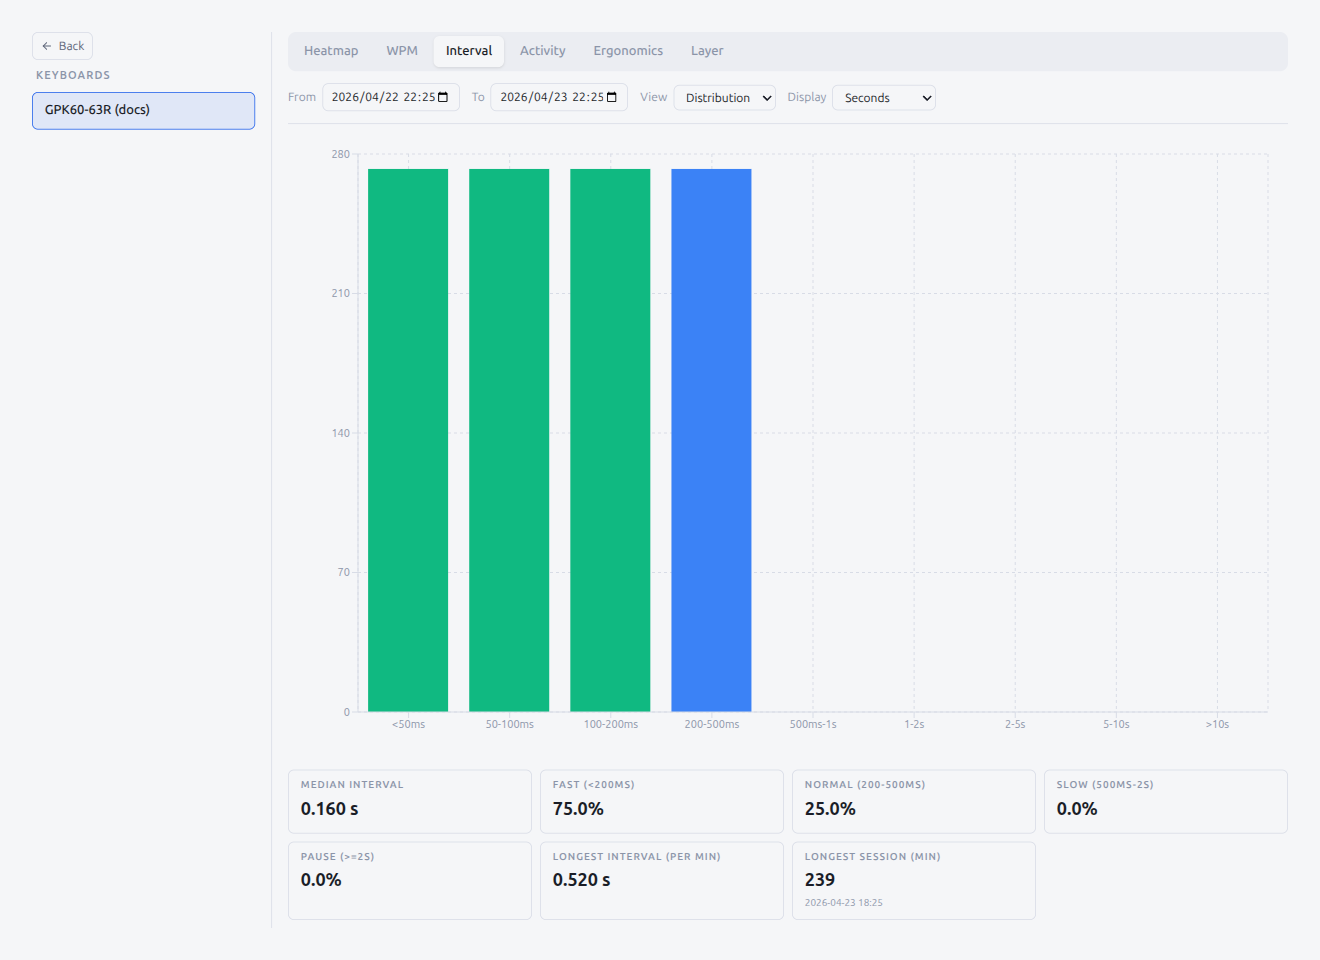
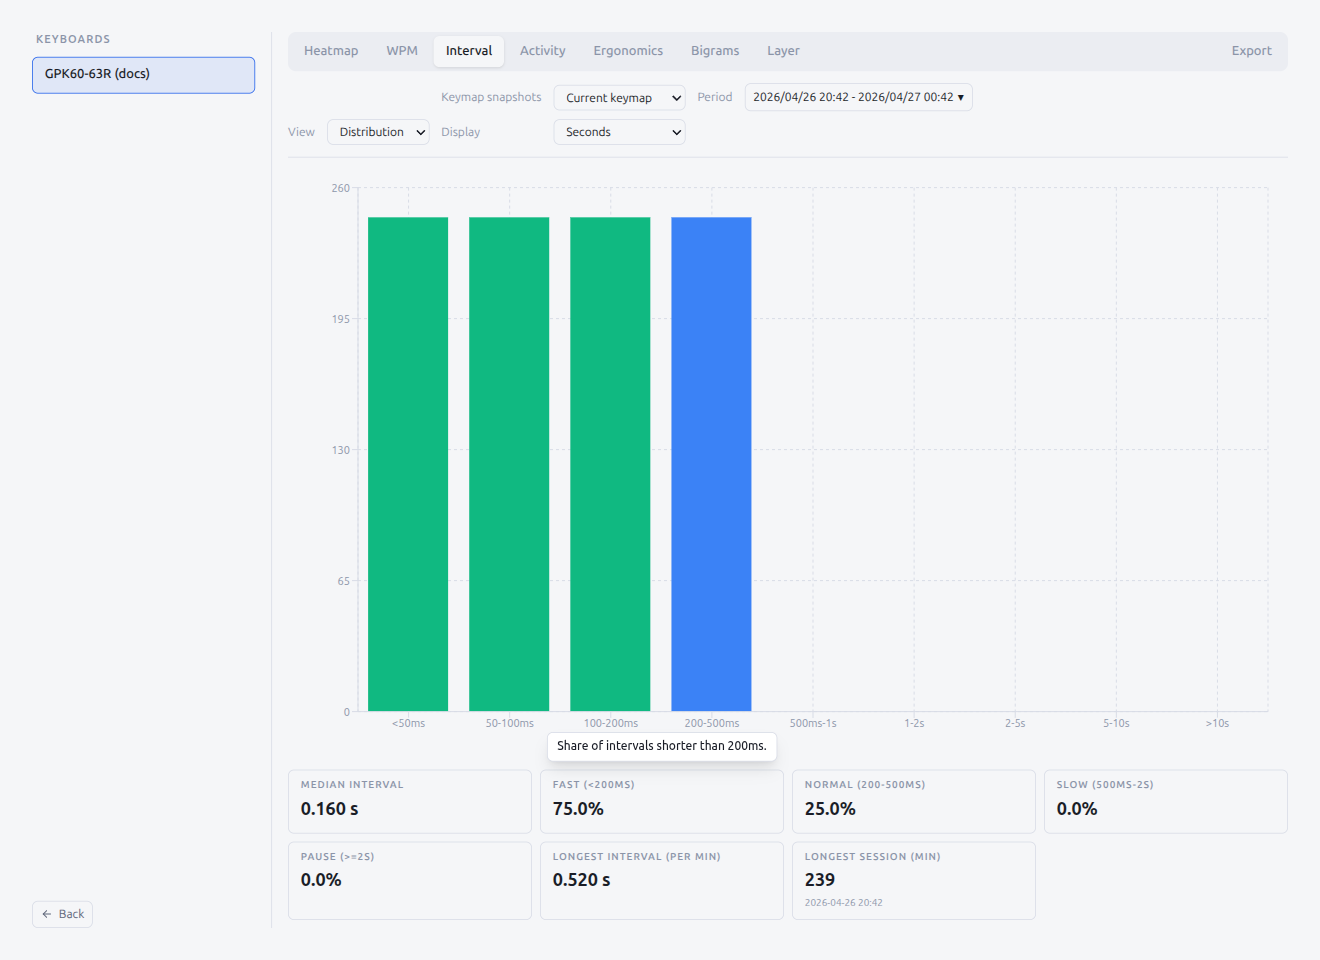
docs(analyze): document the Bigrams tab and refresh seeded screenshots
- Add a Bigrams subsection to the English and Japanese operation
  guides with the four-quadrant table, the Finger IKI snapshot
  requirement, common filters, and empty-state copy that mirrors the
  shipping i18n strings.
- Bump the analysis-tab summary from six to seven entries and add
  Bigrams Finger IKI to the snapshot-bound list in the common-filters
  paragraph.
- Extend the doc-capture helpers to seed bigram-minute rows (alpha row
  pinned at row-1 cols 0-5 and 9-11 so left- and right-hand finger
  pairs both render) and to capture the Bigrams quadrant grid as
  `screenshots/analyze-bigrams.png` with an element screenshot.
- Regenerate the analyze screenshots affected by the diversified alpha
  row (Heatmap now resolves KC_A-F / KC_J-L instead of KC_A everywhere).

diff --git a/e2e/helpers/analyze-seed.ts b/e2e/helpers/analyze-seed.ts
@@ -77,6 +77,22 @@ const DUMMY_TA_LAYER_OPS: Record<string, string> = {
   '0,0,4': 'OSL(2)',
 }
 
+// Alpha row aligned with the matrix-minute seed (keycode = 4 + col on
+// layer 0 row 1, left half) plus right-hand alphas at cols 9-11 so the
+// Bigrams Finger IKI view shows both blue (left-start) and red
+// (right-start) bars instead of a single-hand silhouette.
+const DUMMY_TA_ALPHA_ROW: Record<string, string> = {
+  '0,1,0': 'KC_A',
+  '0,1,1': 'KC_B',
+  '0,1,2': 'KC_C',
+  '0,1,3': 'KC_D',
+  '0,1,4': 'KC_E',
+  '0,1,5': 'KC_F',
+  '0,1,9': 'KC_J',
+  '0,1,10': 'KC_K',
+  '0,1,11': 'KC_L',
+}
+
 export interface TypingAnalyticsSeedBackup {
   jsonlPath: string
   snapshotPath: string
@@ -112,7 +128,8 @@ function buildDummyKeymap(): string[][][] {
     for (let row = 0; row < DUMMY_TA_ROWS; row += 1) {
       const cols: string[] = []
       for (let col = 0; col < DUMMY_TA_COLS; col += 1) {
-        const override = DUMMY_TA_LAYER_OPS[`${layer},${row},${col}`]
+        const key = `${layer},${row},${col}`
+        const override = DUMMY_TA_LAYER_OPS[key] ?? DUMMY_TA_ALPHA_ROW[key]
         cols.push(override ?? 'KC_A')
       }
       layerRows.push(cols)
@@ -126,6 +143,54 @@ function buildDummyKeymap(): string[][][] {
 function dummyMinuteOffsets(): number[] {
   return [240, 180, 120, 60, 30, 15, 10, 5, 3, 1]
 }
+
+// Representative bigram pairs for the Bigrams tab. Histogram bucket
+// boundaries (ms): [60, 100, 150, 200, 300, 500, 1000, Inf]. Each entry
+// is replayed every minute so the Top quadrant shows count-leaders, the
+// Slow quadrant ranks high-IKI pairs, and Finger / Pair quadrants show
+// a varied avgIki distribution. Keycodes 4-9 are KC_A-KC_F; the alpha
+// row in the dummy keymap pins them to layer-0 row 1 columns 0-5 so
+// `buildKeycodeFingerMap` can resolve them to distinct fingers.
+const DUMMY_TA_BIGRAM_PER_MINUTE: ReadonlyArray<{
+  prev: number
+  curr: number
+  c: number
+  hist: readonly number[]
+}> = [
+  // Frequent fast pairs — drive the Top ranking.
+  { prev: 4, curr: 4, c: 10, hist: [3, 5, 2, 0, 0, 0, 0, 0] },
+  { prev: 4, curr: 5, c: 8, hist: [2, 4, 2, 0, 0, 0, 0, 0] },
+  { prev: 5, curr: 6, c: 6, hist: [1, 3, 2, 0, 0, 0, 0, 0] },
+  { prev: 6, curr: 7, c: 5, hist: [0, 1, 2, 2, 0, 0, 0, 0] },
+  { prev: 6, curr: 5, c: 5, hist: [1, 1, 1, 1, 1, 0, 0, 0] },
+  { prev: 7, curr: 8, c: 4, hist: [0, 0, 2, 2, 0, 0, 0, 0] },
+  { prev: 7, curr: 4, c: 4, hist: [1, 2, 1, 0, 0, 0, 0, 0] },
+  { prev: 8, curr: 9, c: 3, hist: [0, 0, 0, 1, 2, 0, 0, 0] },
+  { prev: 8, curr: 5, c: 3, hist: [0, 1, 1, 1, 0, 0, 0, 0] },
+  { prev: 4, curr: 6, c: 3, hist: [1, 2, 0, 0, 0, 0, 0, 0] },
+  // Mid-IKI pairs — fill the Pair heatmap mid-range.
+  { prev: 9, curr: 4, c: 2, hist: [0, 0, 0, 0, 0, 1, 1, 0] },
+  { prev: 9, curr: 6, c: 2, hist: [0, 0, 0, 0, 1, 1, 0, 0] },
+  { prev: 5, curr: 7, c: 2, hist: [0, 0, 1, 1, 0, 0, 0, 0] },
+  { prev: 6, curr: 8, c: 2, hist: [0, 0, 0, 0, 0, 1, 1, 0] },
+  { prev: 8, curr: 6, c: 2, hist: [0, 0, 0, 0, 1, 1, 0, 0] },
+  { prev: 9, curr: 7, c: 2, hist: [0, 0, 0, 0, 0, 1, 1, 0] },
+  // Rare slow pairs — anchor the Slow ranking head.
+  { prev: 4, curr: 9, c: 1, hist: [0, 0, 0, 0, 0, 0, 1, 0] },
+  { prev: 5, curr: 8, c: 1, hist: [0, 0, 0, 0, 0, 0, 0, 1] },
+  { prev: 7, curr: 9, c: 1, hist: [0, 0, 0, 1, 0, 0, 0, 0] },
+  { prev: 4, curr: 7, c: 1, hist: [1, 0, 0, 0, 0, 0, 0, 0] },
+  { prev: 5, curr: 9, c: 1, hist: [0, 0, 0, 0, 0, 0, 0, 1] },
+  { prev: 9, curr: 5, c: 1, hist: [0, 0, 0, 0, 0, 0, 0, 1] },
+  // Right-hand-start pairs (KC_J=13, KC_K=14, KC_L=15) so the Finger
+  // IKI heatmap shows red bars alongside the blue ones.
+  { prev: 13, curr: 4, c: 6, hist: [1, 3, 2, 0, 0, 0, 0, 0] },
+  { prev: 14, curr: 5, c: 4, hist: [0, 1, 2, 1, 0, 0, 0, 0] },
+  { prev: 15, curr: 6, c: 3, hist: [0, 0, 1, 1, 1, 0, 0, 0] },
+  { prev: 13, curr: 14, c: 5, hist: [1, 2, 2, 0, 0, 0, 0, 0] },
+  { prev: 14, curr: 15, c: 4, hist: [0, 1, 2, 1, 0, 0, 0, 0] },
+  { prev: 15, curr: 13, c: 2, hist: [0, 0, 0, 0, 1, 1, 0, 0] },
+]
 
 function buildDummyJsonlContent(machineHash: string, nowMs: number): string {
   const scopeRow = {
@@ -158,9 +223,25 @@ function buildDummyJsonlContent(machineHash: string, nowMs: number): string {
 
   const matrixRows: unknown[] = []
   const statsRows: unknown[] = []
+  const bigramRows: unknown[] = []
   const minuteBase = Math.floor((nowMs - 60_000) / 60_000) * 60_000
   for (const offset of dummyMinuteOffsets()) {
     const minuteTs = minuteBase - offset * 60_000
+
+    const bigrams: Record<string, { c: number; h: readonly number[] }> = {}
+    for (const pair of DUMMY_TA_BIGRAM_PER_MINUTE) {
+      bigrams[`${pair.prev}_${pair.curr}`] = { c: pair.c, h: pair.hist }
+    }
+    bigramRows.push({
+      id: `bigram|${encodeURIComponent(DUMMY_TA_SCOPE_ID)}|${minuteTs}`,
+      kind: 'bigram-minute',
+      updated_at: nowMs,
+      payload: {
+        scopeId: DUMMY_TA_SCOPE_ID,
+        minuteTs,
+        bigrams,
+      },
+    })
     // Layer 0 bulk typing — base layer covers most presses.
     for (let col = 0; col < 6; col += 1) {
       matrixRows.push({
@@ -257,7 +338,7 @@ function buildDummyJsonlContent(machineHash: string, nowMs: number): string {
     })
   }
 
-  const allRows = [scopeRow, sessionRow, ...matrixRows, ...statsRows]
+  const allRows = [scopeRow, sessionRow, ...matrixRows, ...statsRows, ...bigramRows]
   return allRows.map((r) => JSON.stringify(r)).join('\n') + '\n'
 }
 

diff --git a/e2e/helpers/doc-capture.ts b/e2e/helpers/doc-capture.ts
@@ -518,6 +518,22 @@ async function captureAnalyzePage(page: Page): Promise<void> {
     console.log('  [skip] analyze-tab-ergonomics not found')
   }
 
+  const bigramsTab = page.locator('[data-testid="analyze-tab-bigrams"]')
+  if (await isAvailable(bigramsTab)) {
+    await bigramsTab.click()
+    await page.waitForTimeout(800)
+    // Element screenshot of the 2x2 quadrant grid keeps the four sub-views
+    // legible — `fullPage` would dilute each quadrant against sidebar/filters.
+    const bigramsContent = page.locator('[data-testid="analyze-bigrams-content"]')
+    if (await isAvailable(bigramsContent)) {
+      await captureNamed(page, 'analyze-bigrams', { element: bigramsContent })
+    } else {
+      console.log('  [warn] analyze-bigrams-content not visible — capture skipped')
+    }
+  } else {
+    console.log('  [skip] analyze-tab-bigrams not found')
+  }
+
   const layerTab = page.locator('[data-testid="analyze-tab-layer"]')
   if (await isAvailable(layerTab)) {
     await layerTab.click()

diff --git a/docs/OPERATION-GUIDE.ja.md b/docs/OPERATION-GUIDE.ja.md
@@ -85,7 +85,7 @@ File タブでは、物理キーボードを接続せずに `.pipette` ファイ
 
 ### 1.4 分析
 
-分析ページは実際の打鍵の内訳を可視化する。キーごとのヒートマップ、WPM 推移、打鍵間隔、時間帯別アクティビティ、指ごとの負荷、レイヤー別使用状況などを表示する。データはタイピングビュー（ステータスバーから開くコンパクトウィンドウ）を開いている状態で、タイピングテストペインの記録トグルが「開始」になっているときに記録される。タイピングテストの結果も同じストリームに記録される。
+分析ページは実際の打鍵の内訳を可視化する。キーごとのヒートマップ、WPM 推移、打鍵間隔、時間帯別アクティビティ、指ごとの負荷、キーペア (バイグラム) 間隔、レイヤー別使用状況などを表示する。データはタイピングビュー（ステータスバーから開くコンパクトウィンドウ）を開いている状態で、タイピングテストペインの記録トグルが「開始」になっているときに記録される。タイピングテストの結果も同じストリームに記録される。
 
 **アクセス方法**
 
@@ -100,7 +100,7 @@ File タブでは、物理キーボードを接続せずに `.pipette` ファイ
 
 **分析タブ**
 
-チャート上部のタブバーから 6 種類の分析を切り替えられる:
+チャート上部のタブバーから 7 種類の分析を切り替えられる:
 
 | タブ | 内容 |
 |------|------|
@@ -109,15 +109,16 @@ File タブでは、物理キーボードを接続せずに `.pipette` ファイ
 | **間隔** | 打鍵間隔の分位数（min / p25 / 中央値 / p75 / max）を時系列または分布で表示 |
 | **活動量** | 時間 × 曜日グリッドを打鍵数 / WPM / セッションで色分け |
 | **エルゴノミクス** | 指ごとの打鍵数をバーチャートで表示。指アサインは手動編集可。スナップショットが必要 |
+| **バイグラム** | 連続する 2 打鍵 (バイグラム) の頻度・遅延ランキング、ペア別 / 指ペア別の打鍵間隔を表示 |
 | **レイヤー** | レイヤー別の打鍵数または layer-op 起動回数 |
 
-ヒートマップ、エルゴノミクス、レイヤー > 起動回数は期間に重なるキーマップスナップショットが必要。記録を有効にしている間に Pipette が自動でスナップショットを保存するため、空状態の案内に従って記録セッションを開始するとスナップショットが取れる。
+ヒートマップ、エルゴノミクス、バイグラム > 指間隔ヒートマップ、レイヤー > 起動回数は期間に重なるキーマップスナップショットが必要。記録を有効にしている間に Pipette が自動でスナップショットを保存するため、空状態の案内に従って記録セッションを開始するとスナップショットが取れる。
 
 **共通フィルタ**
 
 常に使えるフィルタ:
 
-- **キーマップ履歴** — どの記録時点のキーマップを基準に分析するか選ぶ。**From** / **To** の編集は選んだスナップショットの有効期間内に閉じるため、スナップショットを必要とするタブ（ヒートマップ / Ergonomics / Layer activations）が複数のレイアウトを混ぜて表示することはない
+- **キーマップ履歴** — どの記録時点のキーマップを基準に分析するか選ぶ。**From** / **To** の編集は選んだスナップショットの有効期間内に閉じるため、スナップショットを必要とするタブ（ヒートマップ / Ergonomics / Bigrams 指間隔ヒートマップ / Layer activations）が複数のレイアウトを混ぜて表示することはない
 - **From** / **To** — 分析対象の期間。両入力ともアクティブなスナップショット境界 (またはスナップショットが無いキーボードの場合は直近 7 日) に丸められる
 - **デバイス** — `このデバイス` はこのマシンで記録したデータのみ、`全デバイス合算` は他マシンから同期したデータも含む。同時に選べるのは 1 つのみ。間隔タブの表示を分布にしているときは非表示（分布ビンはデバイス別に分けないため）
 
@@ -265,6 +266,37 @@ WPM タブと同じ選択肢。
 - **スナップショット無し** — ヒートマップと同じメッセージ
 - **レイアウト無し** — 「このスナップショットにはレイアウト情報がありません。」
 - **活動なし** — 「この期間の打鍵データがありません。」
+
+#### バイグラム
+
+バイグラムタブは連続する 2 打鍵 (バイグラム) と、その間隔 (Inter-Key Interval / IKI) を分析する。バイグラムは打鍵時に分単位で集計されるので、選択期間を変えても生イベントの再走査なしに即時表示される。
+
+**4 分割レイアウト**
+
+ビューは 2×2 のグリッドで、各クォドラントに件数セレクタ (10 / 20 / 30 / … / 100) が付く。デフォルトはランキング系が 10、バーチャート系が 20。
+
+| クォドラント | 内容 |
+|--------------|------|
+| **頻出ペア** | バイグラムを出現回数で降順ランキング。**回数** または **平均間隔** 列をクリックして並び替え可能 |
+| **遅いペア** | バイグラムを平均 IKI で降順ランキング (最も遅いペアが上)。**回数** / **平均間隔** / **p95 間隔** のいずれでも並び替え可能 |
+| **指間隔ヒートマップ** | (送り指 → 受け指) ペアの平均 IKI バーチャート。左手始まりは青、右手始まりは赤で色分け |
+| **ペアヒートマップ** | 個別キーペア (`A → B`、`LT1(KC_SPACE) → LShift` など) ごとの平均 IKI バーチャート |
+
+![分析 — バイグラム](screenshots/analyze-bigrams.png)
+
+**スナップショット要件**
+
+キーマップスナップショットが必要なのは **指間隔ヒートマップ** クォドラントだけ。バイグラムペアの数値キーコードを指に解決するためにスナップショットの keymap + layout が要る。**頻出ペア** / **遅いペア** / **ペアヒートマップ** はペア集計データから直接描画されるためスナップショットなしでも動作する。
+
+**共通フィルタ**
+
+- **期間** — 他のタブと同じ `From` / `To` ピッカー。期間変更で再集計される
+- **デバイス** — `このデバイス` のみ、または同期済みの全デバイス。他のタブと同じ挙動
+
+**空状態**
+
+- **データなし** — 「この期間のバイグラムデータはまだありません。打鍵を記録してから再度開いてください」 期間内にペア活動が記録されていないとき表示
+- **スナップショット無し (指間隔ヒートマップのみ)** — 「指ヒートマップには keymap snapshot が必要です。Record セッションを開始するか snapshot のある期間を選択してください」 他の 3 クォドラントは引き続き表示される
 
 #### レイヤー
 

diff --git a/docs/OPERATION-GUIDE.md b/docs/OPERATION-GUIDE.md
@@ -85,7 +85,7 @@ A **breadcrumb navigation** at the top of the content area shows the current pat
 
 ### 1.4 Analyze
 
-The Analyze page shows how you actually type — per-key heatmaps, WPM trends, inter-keystroke intervals, hour-by-day activity, per-finger load, and per-layer usage. Data is recorded while you are in Typing View (the compact window opened from the status bar) and the Record toggle in the typing-test pane is set to Start. Typing-test results are recorded in the same stream.
+The Analyze page shows how you actually type — per-key heatmaps, WPM trends, inter-keystroke intervals, hour-by-day activity, per-finger load, key-pair (bigram) timing, and per-layer usage. Data is recorded while you are in Typing View (the compact window opened from the status bar) and the Record toggle in the typing-test pane is set to Start. Typing-test results are recorded in the same stream.
 
 **Access**
 
@@ -100,7 +100,7 @@ The left sidebar lists every keyboard that has recorded typing data. Pick one to
 
 **Analysis tabs**
 
-Switch between six analyses with the tab bar above the chart:
+Switch between seven analyses with the tab bar above the chart:
 
 | Tab | What it shows |
 |-----|---------------|
@@ -109,15 +109,16 @@ Switch between six analyses with the tab bar above the chart:
 | **Interval** | Keystroke interval percentiles (min / p25 / median / p75 / max), as a time series or a distribution |
 | **Activity** | Hour × day-of-week grid colored by keystrokes, WPM, or sessions |
 | **Ergonomics** | Per-finger keystroke totals, with a manual finger-assignment editor. Requires a snapshot |
+| **Bigrams** | Frequent and slow key-pair timings, plus pair- and finger-level inter-key interval views |
 | **Layer** | Per-layer keystroke counts or layer-op activations |
 
-The Heatmap, Ergonomics, and Layer > Activations views need a keymap snapshot that overlaps the selected range. Pipette saves a snapshot automatically when typing recording is enabled on the keyboard; the empty state tells you when to start a recording session to capture one.
+The Heatmap, Ergonomics, Bigrams > Finger IKI, and Layer > Activations views need a keymap snapshot that overlaps the selected range. Pipette saves a snapshot automatically when typing recording is enabled on the keyboard; the empty state tells you when to start a recording session to capture one.
 
 **Common filters**
 
 The following filters are always available:
 
-- **Keymap snapshots** — picks which recorded keymap to analyze against. Editing **From** / **To** stays inside the selected snapshot's active window so charts that need a snapshot (Heatmap / Ergonomics / Layer activations) never mix two layouts in one view
+- **Keymap snapshots** — picks which recorded keymap to analyze against. Editing **From** / **To** stays inside the selected snapshot's active window so charts that need a snapshot (Heatmap / Ergonomics / Bigrams Finger IKI / Layer activations) never mix two layouts in one view
 - **From** / **To** — the time range to analyze. Both inputs are clamped to the active snapshot's window (or to the most recent 7 days when the keyboard has no snapshot recorded yet)
 - **Device** — `This device` shows only data recorded on this machine; `All devices` also includes data synced from other machines. One scope at a time. Hidden on the Interval tab when View is set to Distribution (distribution bins don't split by device)
 
@@ -266,7 +267,36 @@ Each key is auto-assigned to a finger based on the layout's KLE metadata (column
 - **No layout** — "Layout data not available for this snapshot."
 - **No activity** — "No keystrokes recorded in this range."
 
-#### Layer
+#### Bigrams
+
+The Bigrams tab analyzes consecutive key-press pairs (bigrams) and the inter-key interval (IKI) between them. Bigrams are aggregated per minute as the typing happens, so the tab works over any selected range without re-scanning raw events.
+
+**Quadrant layout**
+
+The view is a 2×2 grid; each quadrant has its own list-size selector (10 / 20 / 30 / … / 100). Default is 10 for the ranking lists and 20 for the bar charts.
+
+| Quadrant | What it shows |
+|----------|---------------|
+| **Top pairs** | Pair ranking by total occurrence count. Click the **Count** or **Avg IKI** column to flip the sort |
+| **Slow pairs** | Pair ranking by average IKI (slowest first). Click any of **Count**, **Avg IKI**, or **p95** to re-sort |
+| **Finger IKI heatmap** | Per-(from-finger → to-finger) average IKI bar chart. Bars are coloured blue for left-hand starts and red for right-hand starts |
+| **Pair heatmap** | Per-pair average IKI bar chart for individual key-pair labels (`A → B`, `LT1(KC_SPACE) → LShift`, etc.) |
+
+![Analyze — Bigrams](screenshots/analyze-bigrams.png)
+
+**Snapshot requirement**
+
+Only the **Finger IKI heatmap** quadrant needs a keymap snapshot — it has to map each numeric keycode in the bigram pairs to a finger, which depends on the snapshot's keymap and layout. The Top pairs, Slow pairs, and Pair heatmap quadrants all render directly from the recorded pair counts and work without a snapshot.
+
+**Common filters**
+
+- **Range** — same `From` / `To` pickers as the rest of Analyze. The view re-aggregates over the chosen window
+- **Device** — `This device` only or all synced devices, identical to the other tabs
+
+**Empty states**
+
+- **No bigram data** — "No bigram data in this range yet. Record some typing and try again." Shown when the range has no recorded pair activity
+- **No snapshot (Finger IKI quadrant only)** — "Finger heatmap needs a keymap snapshot. Start a record session or pick a range with one." The other three quadrants still render
 
 The Layer tab breaks usage down by keyboard layer.
 
